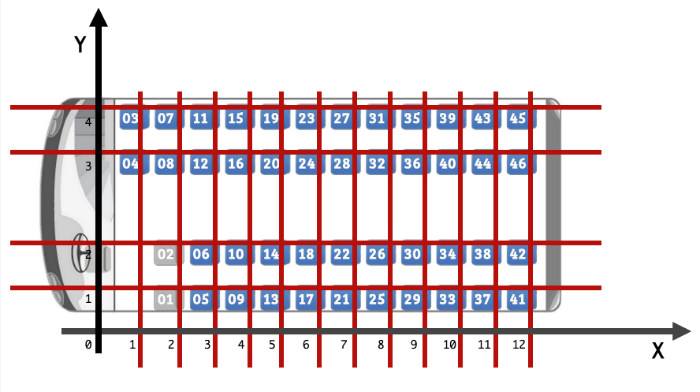
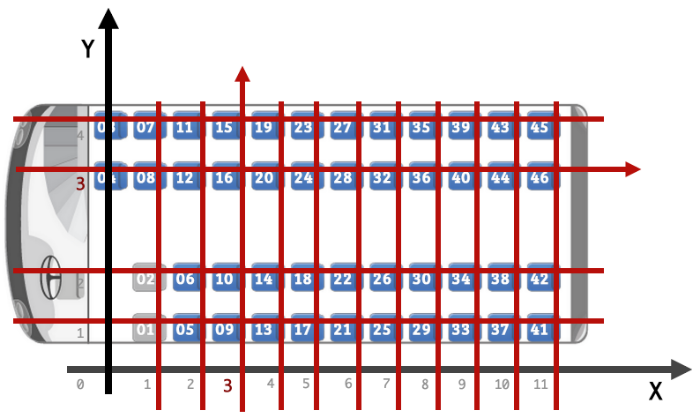
Fixes on Seat mechanic.

diff --git a/index.html b/index.html
@@ -612,7 +612,7 @@ a.list-group-item.heading:hover {
 <p><img src="img/1_bus_seats.png" alt="Seat Selection - source: http://www.clickbus.com.br"></p>
 <p>In this image, we can represent the Seat manipulation as an array, with X and Y axis:</p>
 <p><img src="img/2_array_example.png" alt="Seat Selection - source: http://www.clickbus.com.br"></p>
-<p>So, if you have the following coordinates (X: 3, Y: 3), you have selected the Seat <code>&quot;name&quot;: &quot;12&quot;</code>, as follow:</p>
+<p>So, if you have the following coordinates (X: 3, Y: 3), you have selected the Seat <code>&quot;name&quot;: &quot;16&quot;</code>, as follow:</p>
 <pre><code class="language-json">{
     "<span class="hljs-attribute">position</span>": <span class="hljs-value">{
         "<span class="hljs-attribute">x</span>": <span class="hljs-value"><span class="hljs-string">"3"</span></span>,

diff --git a/source.md b/source.md
@@ -493,7 +493,7 @@ In this image, we can represent the Seat manipulation as an array, with X and Y 
 
 ![Seat Selection - source: http://www.clickbus.com.br](img/2_array_example.png)
 
-So, if you have the following coordinates (X: 3, Y: 3), you have selected the Seat `"name": "12"`, as follow:
+So, if you have the following coordinates (X: 3, Y: 3), you have selected the Seat `"name": "16"`, as follow:
 
 ```json
 {
